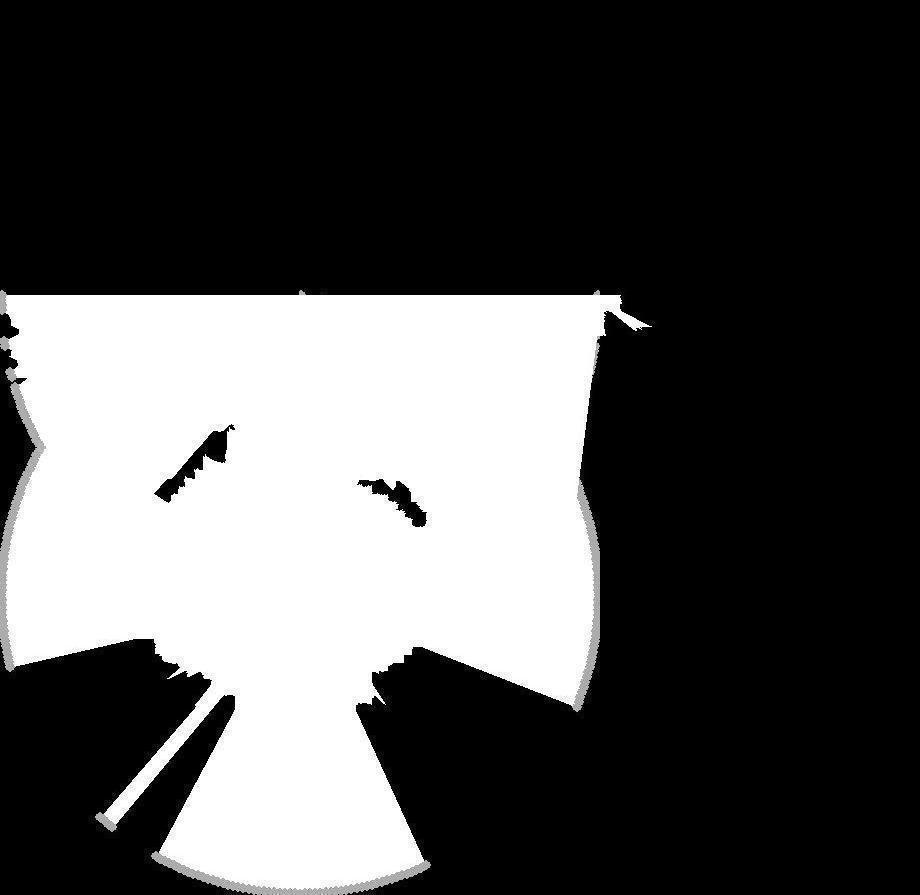
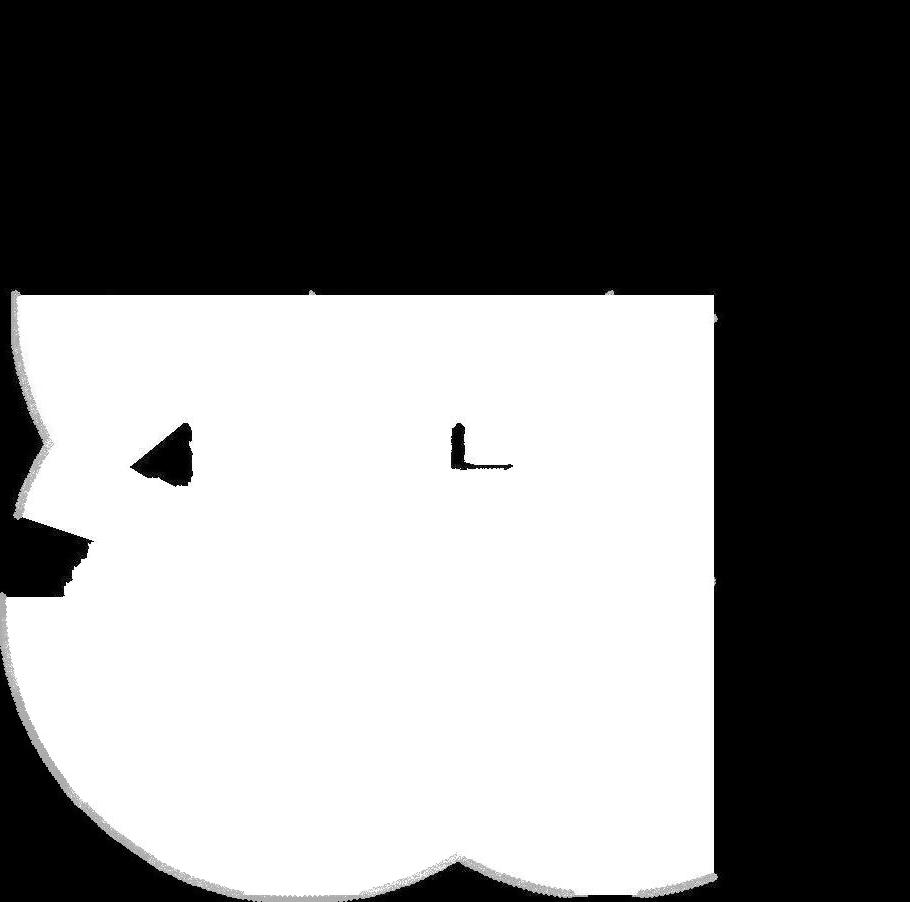
Bot with motion errors its gross

diff --git a/SLAM_Lidar_BW_withError.py b/SLAM_Lidar_BW_withError.py
@@ -1,0 +1,199 @@
+"""
+Creating Occupancy grid using LIDAR sensor
+Includes error defined below
+"""
+
+# TODO Stopping condition
+# TODO Increase cell size of resultant map
+# TODO Set botL = botW = 60 and edit move_bot() to move to centroid of unvisited cells
+
+from numpy import array, add, subtract
+from os import listdir
+from PIL import Image
+from pygame_arena import colors
+from merge_images import merge_BW
+import pygame
+import pygame.locals
+from random import gauss
+from math import sin, cos, radians
+
+specs = (500, 3, 1, 1, 300, 5)
+"""
+specs[0] - Frequency of LIDAR in Hz
+specs[1] - Time taken for servo motor to complete 1 revolution
+specs[2] - Bot Length (Y Axis, using standard cartesian Coordinates)
+specs[3] - Bot Width (X Axis)
+specs[4] - Max Distance LIDAR can measure, in cm. Turn it 40k cm later
+specs[5] - Grey Area - Min Distance for bot to turn back from an obstacle
+"""
+
+errors = (0, 5)
+"""
+errors[0] - measurement error, per 100 cm
+errors[1] - motion error, per 100 cm
+"""
+
+reality = []
+all_points = []  # Points which are detected as obstacle or Out Of Sensor Bounds
+OOB = []  # Out of Bound Area
+real_coordinates = []  # bot's coordinates in real world
+bot_center = []
+direction = -1j
+
+
+def init():
+    """
+    Turns 'jpg' to reality array
+    Initializes x,y,result_map to some values
+    """
+    global reality, real_coordinates, bot_center
+    im = Image.open('map.jpg')
+    reality = array(im)
+
+    # TODO Starting Point Issue
+    real_coordinates.append((reality.shape[1] / 2, reality.shape[0] / 2))
+    bot_center = (0, 0)
+
+
+def move_bot():
+    """
+    Core of Motion Part
+    Decides motion of the bot and tries to move it
+    Includes Gaussian error
+    """
+    global reality, direction, real_coordinates, specs, direction, bot_center, errors
+    (x, y) = (real_coordinates[-1][0], real_coordinates[-1][1])
+
+    # given code will update bot's position
+    # note that i'm going in anticlockwise sense using 4 complex roots of 1 viz. 1,-1,i,-i
+    delta = 1
+    while delta < specs[4]:
+        if specs[5] <= x < reality.shape[1] - specs[5] and specs[5] <= y < reality.shape[0] - specs[5] \
+                and 0 == reality[y][x]:
+            x += 1 * int(direction.real)
+            y += 1 * int(direction.imag)
+            delta += 1
+        else:
+            break
+
+    (x, y) = real_coordinates[-1]
+    delta -= 1  # At this point, I'm assuming delta will always be greater than what we want
+    x = int(x + delta * int(direction.real) + gauss(0, errors[1]))
+    y = int(y + delta * int(direction.imag) + gauss(0, errors[1]))
+
+    if specs[5] > x:
+        x = specs[5]
+        print 'Exceeding X limit'
+    elif x >= reality.shape[1] - specs[5]:
+        x = reality.shape[1] - specs[5] - 1
+        print 'Exceeding X limit'
+
+    if specs[5] > y:
+        y = specs[5]
+        print 'Exceeding Y limit'
+    elif y >= reality.shape[0] - specs[5]:
+        y = reality.shape[0] - specs[5] - 1
+        print 'Exceeding Y limit'
+
+    real_coordinates.append((x, y))
+    bot_center = add(bot_center, subtract(real_coordinates[-1], real_coordinates[-2]))
+
+    # Finally changing the direction
+    direction *= 1j
+
+
+def get_readings():
+    """
+    Core of measurement taking
+
+    """
+    global real_coordinates, reality, all_points, OOB
+    n = specs[0] * specs[1]
+    (x, y) = (int(real_coordinates[-1][0]), int(real_coordinates[-1][1]))
+
+    for i in range(1, n):
+        r = 1
+        (_x, _y) = (x - int(cos(radians(i * 360 / n)) * r), y - int(sin(radians(i * 360 / n)) * r))
+
+        while 0 <= _x < reality.shape[1] and 0 <= _y < reality.shape[0] and r < specs[4]:
+            if reality[_y][_x] != 0:
+                if (_x, _y) not in all_points:  # to avoid same point being detected again in same session
+                    all_points.append((_x, _y))
+                break
+            r += 1
+            (_x, _y) = (x - int(cos(radians(i * 360 / n)) * r), y - int(sin(radians(i * 360 / n)) * r))
+
+        # TODO Out Of Bounds Issue
+        # This is the situation when sensor's reading reach the max value
+        (_x, _y) = (x - int(cos(radians(i * 360 / n)) * (r - 1)), y - int(sin(radians(i * 360 / n)) * (r - 1)))
+        if r == specs[4]:
+            OOB.append((_x, _y))
+        if (_x, _y) not in all_points:
+            all_points.append((_x, _y))
+
+
+def update_image():
+    """
+    Merges the (short-lived, error-free) metric map to (global, error-prone) perspective map
+    Also creates the grey-area for bot's motion
+
+    """
+    global all_points, OOB, real_coordinates, reality, bot_center
+
+    pygame.init()
+    screen = pygame.display.set_mode((2 * specs[4], 2 * specs[4]))
+    screen.fill(colors['BLACK'])
+
+    for i in range(0, len(all_points)):
+        # TODO Image Merge Issue
+        all_points[i] = add(all_points[i], subtract((specs[4], specs[4]), real_coordinates[-1]))
+    pygame.draw.polygon(screen, colors['WHITE'], all_points)
+
+    for i in range(0, len(OOB)):
+        # TODO Image Merge Issue
+        OOB[i] = add(OOB[i], subtract((specs[4], specs[4]), real_coordinates[-1]))
+        # TODO Grey Area Issue
+        pygame.draw.circle(screen, colors['LGREY'], OOB[i], specs[5])
+
+    pygame.image.save(screen, 'temp.jpg')
+    pygame.quit()
+
+    if len(real_coordinates) > 1:
+        bot_center = merge_BW('result.jpg', 'temp.jpg', bot_center)
+    else:
+        Image.open('temp.jpg').convert('L').save('result.jpg')
+        bot_center = (specs[4], specs[4])
+
+    all_points = []  # this is important else u'll be using points of previous readings again
+    OOB = []
+
+
+def finish():
+    """ 
+    :Prints Resultant map
+
+    """
+    if 'result.jpg' in listdir('.'):
+        # TODO Invert Color Issue
+        # ImageOps.invert(Image.open('result.jpg')).show()
+        Image.open('result.jpg').show()
+
+
+def main():
+    init()
+    start = raw_input("Press 'y' to start: ").startswith('y')
+
+    while start:
+        print "Started scanning at ", real_coordinates[-1]
+        get_readings()
+        update_image()
+        move_bot()
+        print "Ended Scanning. Bot moved ", subtract(real_coordinates[-1], real_coordinates[-2]), "\nNow at", \
+            real_coordinates[-1]
+        start = raw_input("\nPress 'y' to continue scanning: ").startswith('y')
+
+    finish()
+
+
+if __name__ == '__main__':
+    main()
